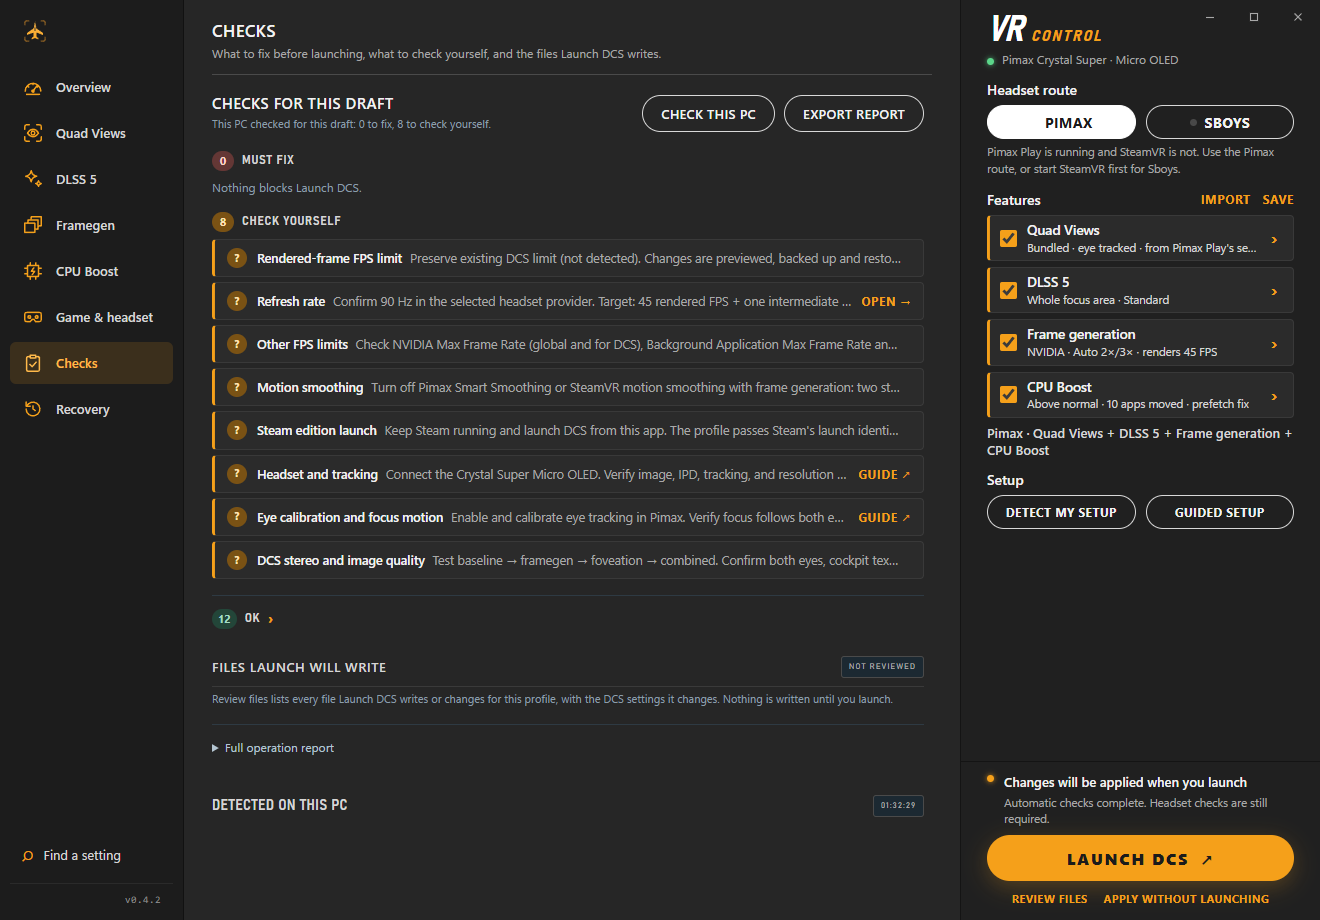
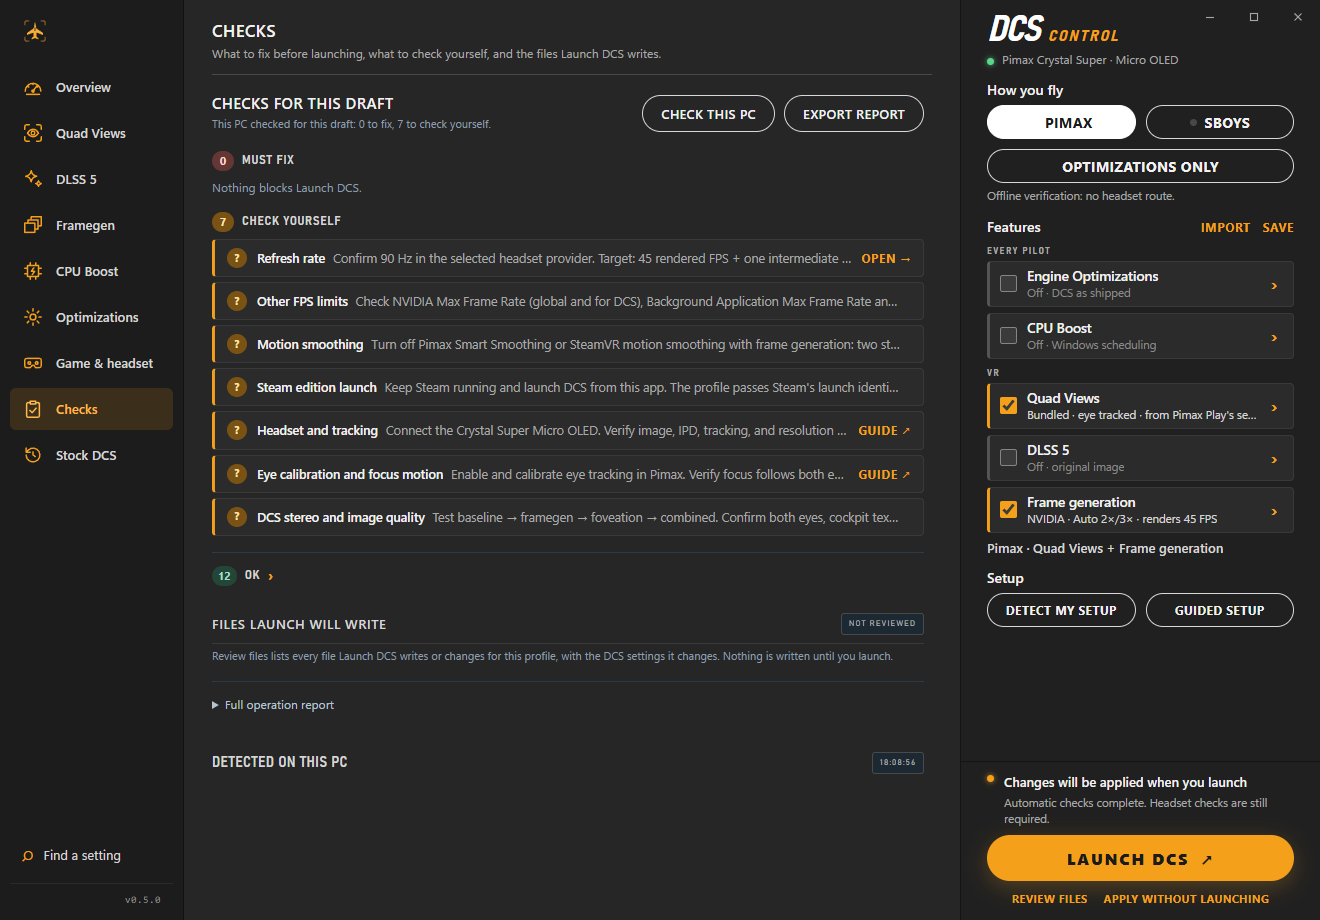
Tidier download, Windows 10, new screenshots; no build paths in the package
Download: the release folder now holds only DcsControl.exe (a small
launcher that starts files\DcsControl.exe with the same arguments and
returns its exit code), "Install DCS Control.cmd", README.txt and a files
folder with everything else. It runs from any folder. The installer lives
in files\scripts and installs the same layout; the upgrade from the old
flat layout is covered by the release test.

Privacy: interface-renders.json in the package listed each image with the
full path of the build folder, which includes the build machine's user
name (also in earlier releases). It now lists file names only, and the
release verification fails if any text file in the package contains the
build user's profile path.

Docs: Windows 10 or 11 (tested on 11); how the app finds DCS (standalone,
Steam, or chosen by hand); what is in the ZIP; screenshots of the current
interface, with the Engine Optimizations page on the README.

diff --git a/scripts/verify-web-release.py b/scripts/verify-web-release.py
@@ -26,7 +26,7 @@ for kind, archive in [('binary', Path(str(release)+'.zip')), ('source', root/f'a
         assert not any(n.lower().endswith('nvngx_dlssnr.dll') for n in z.namelist()), 'Neural runtime must not be bundled'
         if kind == 'binary':
             assert not any('CustomHeadset-1.3.0-Pimax-UI.zip' in n for n in z.namelist()), 'Sboys private binary was bundled'
-            policy = json.loads(z.read(release.name+'/distribution-policy.json'))
+            policy = json.loads(z.read(release.name+'/files/distribution-policy.json'))
             assert any(c['id'] == 'sboys' and c['delivery'] == 'OfficialDownloadOrImport' for c in policy['components'])
             for n in z.namelist():
                 if n.endswith('.zip'):
@@ -39,8 +39,13 @@ for kind, archive in [('binary', Path(str(release)+'.zip')), ('source', root/f'a
                 data = z.read(release.name+'/'+f['path'].replace('\\','/'))
                 assert len(data) == f['bytes'] and digest(data) == f['sha256'], f['path']
             for asset in ['ui/index.html','ui/app.js','ui/setup.js','ui/app.css','ui/theme.css','ui/keyart.svg','ui/aircraft.svg','WebView2Loader.dll','Microsoft.Web.WebView2.Core.dll','licenses/WebView2-SDK.txt','licenses/QuadViews-THIRD-PARTY.txt','licenses/WIL-MIT.txt','docs/SETUP.md','docs/FRAME_PACING.md']:
-                assert release.name+'/'+asset in z.namelist(), asset
+                assert release.name+'/files/'+asset in z.namelist(), asset
             assert not any('interface-fixture/' in n for n in z.namelist()), 'Test fixture accidentally bundled'
+            # No text file in the package may carry the build machine's user profile path (a user name).
+            home = str(Path.home()).lower().encode()
+            for n in z.namelist():
+                if n.lower().endswith(('.json', '.txt', '.md', '.cmd', '.ps1', '.ini', '.cfg', '.lua', '.html', '.js', '.css')):
+                    assert home not in z.read(n).lower() and home.replace(b'\\', b'/') not in z.read(n).lower(), 'Build machine path in the package: ' + n
             result['manifestFiles'] = len(manifest['files'])
         else:
             assert not any(n.startswith('upstream/') and n.lower().endswith(('.exe','.dll','.lib','.pdb')) for n in z.namelist()), 'General-purpose vendor build binaries were bundled'
@@ -58,7 +63,7 @@ assert result['manager']['passed'] == result['manager']['total'] and result['man
 fixture = Path(args.fixture)
 result['installer'] = json.loads((fixture/'result.json').read_text(encoding='utf-8-sig'))
 assert result['installer']['passed'] and result['installer']['previousReleaseUpgradeChecked']
-for name, prefix, count in [('packagedWebView',release/'docs/interface',261),('installedWebView',fixture/'gui',275)]:
+for name, prefix, count in [('packagedWebView',release/'files/docs/interface',261),('installedWebView',fixture/'gui',275)]:
     checks = json.loads(Path(str(prefix)+'-checks.json').read_text())
     assert checks['passed'] and checks['count'] == count
     renders = json.loads(Path(str(prefix)+'-renders.json').read_text())
@@ -68,16 +73,18 @@ for name, prefix, count in [('packagedWebView',release/'docs/interface',261),('i
 old = root/'artifacts/release/DcsVrControl-0.2.3-preview-win-x64'
 for f in json.loads((release/'release-manifest.json').read_text(encoding='utf-8-sig'))['files']:
     p = f['path'].replace('\\','/')
+    if not p.startswith('files/'): continue  # the launcher, the installer command, README.txt
+    p = p.removeprefix('files/')
     # Components added after 0.2.3 (the deferred OFXR layer) have no baseline to compare against.
     # Components rebuilt on purpose from patched sources (Cheeky OpenXR layer with the DCS quad layout export, the
     # focus adapter) must match their own published hash instead; every other component stays byte-identical.
     rebuilt = p.removesuffix('.sha256') in ('components/CheekyOpenXRLayer.dll', 'components/quadviews/XR_APILAYER_MBUCCHIA_quad_views_foveated.dll') or p.startswith('components/cheeky-focus/') or p.startswith('components/boost/') or p.startswith('components/dcsqvcull/')
     if rebuilt:
-        sidecar = release/(p + '.sha256')
+        sidecar = release/'files'/(p + '.sha256')
         if not p.endswith('.sha256') and sidecar.exists():
-            assert digest((release/p).read_bytes()) == sidecar.read_text().strip().lower(), 'Rebuilt component hash mismatch: '+p
+            assert digest((release/'files'/p).read_bytes()) == sidecar.read_text().strip().lower(), 'Rebuilt component hash mismatch: '+p
     elif p.startswith(('components/','packages/')) and (old/p).exists():
-        assert digest((release/p).read_bytes()) == digest((old/p).read_bytes()), 'Native render component changed: '+p
+        assert digest((release/'files'/p).read_bytes()) == digest((old/p).read_bytes()), 'Native render component changed: '+p
 result['nativeRenderComponentsUnchanged'] = True
 result['distributionPolicyChecked'] = True
 result['combinedGpu'] = json.loads((root/'artifacts/native/combined-gpu/result.json').read_text(encoding='utf-8-sig'))

diff --git a/native/launcher/launcher.cpp b/native/launcher/launcher.cpp
@@ -1,0 +1,51 @@
+// DCS Control launcher: the DcsControl.exe at the top of the release folder. It starts the application kept in the
+// files\ folder next to it (files\DcsControl.exe) with the same arguments, waits for it and returns its exit code, so
+// the release folder shows users only what they need: this program, "Install DCS Control.cmd" and README.txt.
+#include <windows.h>
+
+#include <string>
+
+namespace {
+// The command line after this program's own name (quoted or not), passed on unchanged.
+const wchar_t* Arguments(const wchar_t* line) {
+    if (*line == L'"') {
+        ++line;
+        while (*line && *line != L'"') ++line;
+        if (*line) ++line;
+    } else {
+        while (*line && *line != L' ' && *line != L'\t') ++line;
+    }
+    while (*line == L' ' || *line == L'\t') ++line;
+    return line;
+}
+}  // namespace
+
+int WINAPI wWinMain(HINSTANCE, HINSTANCE, PWSTR, int) {
+    wchar_t self[MAX_PATH * 4]{};
+    const DWORD length = GetModuleFileNameW(nullptr, self, ARRAYSIZE(self));
+    if (length == 0 || length >= ARRAYSIZE(self)) return 1;
+    std::wstring folder(self);
+    folder.resize(folder.find_last_of(L'\\'));
+    const std::wstring files = folder + L"\\files";
+    const std::wstring app = files + L"\\DcsControl.exe";
+    if (GetFileAttributesW(app.c_str()) == INVALID_FILE_ATTRIBUTES) {
+        MessageBoxW(nullptr, L"The files folder next to DcsControl.exe is missing. Extract the whole ZIP and start DcsControl.exe again.",
+            L"DCS Control", MB_OK | MB_ICONERROR);
+        return 2;
+    }
+    std::wstring command = L"\"" + app + L"\"";
+    const wchar_t* rest = Arguments(GetCommandLineW());
+    if (*rest) command += L" " + std::wstring(rest);
+    STARTUPINFOW startup{sizeof(startup)};
+    PROCESS_INFORMATION process{};
+    if (!CreateProcessW(app.c_str(), command.data(), nullptr, nullptr, FALSE, 0, nullptr, files.c_str(), &startup, &process)) {
+        MessageBoxW(nullptr, L"DCS Control could not be started from the files folder.", L"DCS Control", MB_OK | MB_ICONERROR);
+        return 3;
+    }
+    CloseHandle(process.hThread);
+    WaitForSingleObject(process.hProcess, INFINITE);
+    DWORD code = 0;
+    GetExitCodeProcess(process.hProcess, &code);
+    CloseHandle(process.hProcess);
+    return static_cast<int>(code);
+}

diff --git a/docs/USER_GUIDE.md b/docs/USER_GUIDE.md
@@ -49,24 +49,28 @@ What it does **not** do: it does not change Windows settings, your GPU driver se
 
 ## Requirements
 
-- **Windows 11, 64-bit.** Run as a normal user — not as administrator.
+- **Windows 10 or 11, 64-bit** (tested on Windows 11; Windows 10 is supported by everything the app uses but has not been flown yet). Run as a normal user — not as administrator.
 - **For Engine Optimizations and CPU Boost:** any GPU and headset, or none. The items below are for the VR features.
 - **NVIDIA RTX graphics card** for DLSS 5 and for NVIDIA optical-flow frame generation. (The Framegen page also offers FidelityFX, which works on any GPU, but the tested setup is NVIDIA.) Development and testing: RTX 5090.
 - **Pimax headset** (tested: Crystal Super Micro OLED) with either
   - **Pimax Play** (the original Pimax OpenXR runtime), or
   - **SteamVR with the Sboys driver** (CustomHeadsetOpenVR 1.3.0; for SLAM tracking it needs Pimax EVO).
 - **DCS World 2.9**, Steam edition or standalone.
-- **Microsoft Edge WebView2 Runtime** (already on most Windows 11 PCs) and the **Microsoft Visual C++ x64 runtime 14.50 or newer**. `Install.cmd` checks both and installs them from Microsoft if they are missing.
+- **Microsoft Edge WebView2 Runtime** (already on most Windows 10 and 11 PCs) and the **Microsoft Visual C++ x64 runtime 14.50 or newer**. `Install DCS Control.cmd` checks both and installs them from Microsoft if they are missing.
 - For DLSS 5: your own signed NVIDIA **`nvngx_dlssnr.dll`, version 310.8** (see [DLSS 5](#dlss-5)). It is not included and the app does not download it.
 
 ## Install
 
 Download `DcsControl-0.5.0-preview-win-x64.zip` from the [Releases page](https://github.com/NIGos/dcs-control/releases) and extract it to a folder of your choice. Then either:
 
-- **Run it directly:** double-click `DcsControl.exe` in the extracted folder (.NET is included), or
-- **Install it:** double-click `Install.cmd`. It verifies the files, installs the app for your Windows user under `%LOCALAPPDATA%\Programs\DcsControl`, adds **DCS Control** to the Start menu, and installs WebView2 / the C++ runtime from Microsoft if they are missing (this step may need internet access and an administrator prompt for the C++ runtime).
+The folder contains only three things: **`DcsControl.exe`** (the app), **`Install DCS Control.cmd`** and a **`files`** folder with everything else (keep it next to `DcsControl.exe`), plus a short `README.txt`. The folder can be anywhere: Desktop, Downloads, another drive. The app keeps its own data (backups, profiles) in `%LOCALAPPDATA%`, so moving the folder loses nothing.
 
-If you had **DCS VR Control** installed (the app's name before 0.5.0), `Install.cmd` replaces it and its Start menu entry; your backups and profiles stay where they are and Back to stock DCS keeps working.
+**How the app finds DCS:** the standalone version from Windows' list of installed programs ("DCS World", also OpenBeta), the Steam version from your Steam libraries, and your settings from `Saved Games\DCS` (or `DCS.openbeta`). If it finds nothing, or you have more than one install, pick `DCS.exe` and `options.lua` on the **Game & headset** page.
+
+- **Run it directly:** double-click `DcsControl.exe` in the extracted folder (.NET is included), or
+- **Install it:** double-click `Install DCS Control.cmd`. It verifies the files, installs the app for your Windows user under `%LOCALAPPDATA%\Programs\DcsControl`, adds **DCS Control** to the Start menu, and installs WebView2 / the C++ runtime from Microsoft if they are missing (this step may need internet access and an administrator prompt for the C++ runtime).
+
+If you had **DCS VR Control** installed (the app's name before 0.5.0), `Install DCS Control.cmd` replaces it and its Start menu entry; your backups and profiles stay where they are and Back to stock DCS keeps working.
 
 Installing the app does not touch DCS or your VR software. Nothing is written into DCS until you press **Launch DCS** (or **Apply without launching**).
 
@@ -185,7 +189,9 @@ Four more options on the CPU Boost page, all off by default and usable without C
 
 ### Engine Optimizations (CPU)
 
-**Engine Optimizations** is its own page, off by default. When on, Launch DCS installs a small module (DcsQvCull) that DCS loads itself through a Lua hook in `Saved Games\DCS\Scripts\Hooks`; nothing in the DCS install folder changes. It removes CPU work from DCS's render thread without changing what is drawn:
+![Engine Optimizations page](screenshots/engine-optimizations.png)
+
+**Engine Optimizations** is its own page, off by default, and it is for every pilot, on a monitor or with any headset. Once applied it stays on every time DCS starts, also from Steam or a desktop shortcut, until you turn it off or use Back to stock DCS. When on, Launch DCS installs a small module (DcsQvCull) that DCS loads itself through a Lua hook in `Saved Games\DCS\Scripts\Hooks`; nothing in the DCS install folder changes. It removes CPU work from DCS's render thread without changing what is drawn:
 
 - **Streaming timer cache** (on) — DCS reads a high-resolution clock on every texture bind, tens of thousands of times a frame, only to timestamp texture-streaming use. The module serves it from a value refreshed every millisecond, far finer than streaming needs; nothing you see changes. Measured: **+5 to +6 % FPS**.
 - **Culling partition boost** (on) — DCS splits the search for visible objects into 12 uneven tasks and waits for the slowest. The module splits the same work into 16; the same objects are found. Measured: **+2 % FPS**, p95 frame time −3 %.
@@ -334,7 +340,7 @@ Only a running DCS stops it. The folded list shows what will happen to each file
 ### How do I uninstall?
 
 1. Open the app and press **Back to stock DCS** (Stock DCS page) with DCS closed.
-2. Run `Uninstall.cmd` from the extracted release folder. It removes the application files after checking them; your profiles and backups stay.
+2. Run `files\Uninstall.cmd` from the installed (or extracted) folder. It removes the application files after checking them; your profiles and backups stay.
 3. If you want everything gone, delete `%LOCALAPPDATA%\DcsControl` (or `%LOCALAPPDATA%\DcsVrControl` if you used the app before 0.5.0) afterwards (only after Back to stock DCS — it holds the backups).
 
 The Sboys driver, if you installed it, is managed by its own tool.

diff --git a/README.md b/README.md
@@ -13,9 +13,9 @@ Everything the app changes is backed up and comes back with **Back to stock DCS*
   <img src="docs/screenshots/overview-last-flight.png" alt="Overview: launch status, the features and a summary of the last flight" width="800">
 </p>
 
-| Quad Views, read from Pimax Play | Frame generation | Back to stock DCS |
+| Engine Optimizations (every pilot) | Quad Views, read from Pimax Play | Back to stock DCS |
 | --- | --- | --- |
-| ![Quad Views](docs/screenshots/quad-views-pimax-play.png) | ![Framegen](docs/screenshots/framegen-auto-2x-3x.png) | ![Back to stock DCS](docs/screenshots/recovery-original-files.png) |
+| ![Engine Optimizations](docs/screenshots/engine-optimizations.png) | ![Quad Views](docs/screenshots/quad-views-pimax-play.png) | ![Back to stock DCS](docs/screenshots/recovery-original-files.png) |
 
 ## What it does
 
@@ -38,8 +38,8 @@ After each flight the Overview shows a **Last flight** summary.
 
 ## Quick start
 
-1. **You need:** Windows 11 and DCS World 2.9. For the VR features: a Pimax headset with Pimax Play (or SteamVR with the Sboys driver) and an NVIDIA RTX GPU; for DLSS 5 your own `nvngx_dlssnr.dll` (tested with 310.8, not included).
-2. **Download** `DcsControl-0.5.0-preview-win-x64.zip` from [Releases](https://github.com/NIGos/dcs-control/releases), unzip it and run `Install.cmd` (or just `DcsControl.exe`).
+1. **You need:** Windows 10 or 11 (64-bit; tested on 11) and DCS World 2.9. For the VR features: a Pimax headset with Pimax Play (or SteamVR with the Sboys driver) and an NVIDIA RTX GPU; for DLSS 5 your own `nvngx_dlssnr.dll` (tested with 310.8, not included).
+2. **Download** `DcsControl-0.5.0-preview-win-x64.zip` from [Releases](https://github.com/NIGos/dcs-control/releases), unzip it anywhere and double-click `DcsControl.exe`. Inside you find only `DcsControl.exe`, `Install DCS Control.cmd` (adds it to the Start menu) and a `files` folder that must stay next to it.
 3. **Choose how you fly** in the right panel: **Pimax**, **Sboys**, or **Optimizations only** (monitor or another headset). **Detect my setup** and **Guided setup** can do it for you.
 4. **Tick the features** you want. Each one has its own page if you want to adjust it.
 5. **Press Launch DCS.** Engine Optimizations then stay on whenever DCS starts. The VR features and CPU Boost need DCS to be started from the app.

diff --git a/docs/THIRD_PARTY.md b/docs/THIRD_PARTY.md
@@ -27,6 +27,6 @@ FidelityFX build scripts contain compatibility fixes for Ninja and shader output
 
 OFXR retains its original LGPL/GPL and third-party notices inside its ZIP. Its NVIDIA optical-flow headers have their notice there; nvofapi64.dll is provided by the installed NVIDIA driver and is not bundled. Cheeky dependency notices, Quad Views THIRD_PARTY, OpenXR MixedReality NOTICE and Windows Implementation Library notices accompany the modified binaries. The matching source ZIP must accompany binary redistribution. General-purpose SDK executables, DLLs, binary libraries and debug symbols are omitted from the source ZIP: obtain MSVC / Windows SDK and FidelityFX 1.1.4 tools from their official distributions, then overlay these modified source snapshots. All renderer source and shader changes remain included. `UPSTREAM_REVISIONS.json` pins the base revisions.
 
-Microsoft WebView2 / C++ installers are downloaded only when required by Install.cmd and checked for a valid Microsoft signature before execution. They are not bundled. Their official installer terms apply. Full redistribution policy and hashes are supplied for review; the private preview is unsigned.
+Microsoft WebView2 / C++ installers are downloaded only when required by Install DCS Control.cmd and checked for a valid Microsoft signature before execution. They are not bundled. Their official installer terms apply. Full redistribution policy and hashes are supplied for review; the private preview is unsigned.
 
 Cheeky is distributed as the three upstream binaries the profiles load (`dxgi.dll`, `CheekyFoveatedDLSSHost.dll`, `CheekyFoveatedDLSSRuntime.dll`), extracted at build time from the pinned 0.5.4 archive and hash-verified. The archive and its `version.dll` fallback loader are not distributed: Microsoft Defender flags that loader (`Trojan:Win32/Posilod.CA!cl`, a cloud heuristic), and `dxgi.dll` alone is sufficient. When another `dxgi.dll` is already in the DCS bin folder, the app asks the user to remove it instead of falling back.

diff --git a/docs/RELEASE_NOTES.md b/docs/RELEASE_NOTES.md
@@ -1,6 +1,8 @@
 # 0.5.0 preview
 
-**DCS VR Control is now DCS Control.** It is no longer only for VR: the CPU optimizations are for every pilot, on a monitor or with any headset. The app is `DcsControl.exe`, installed under `%LOCALAPPDATA%\Programs\DcsControl`; `Install.cmd` replaces an earlier DCS VR Control install and its Start menu entry. An existing state folder (`%LOCALAPPDATA%\DcsVrControl`, with the record of original files and the applied profile) keeps being used, so Back to stock DCS keeps working; new installs use `%LOCALAPPDATA%\DcsControl`. The repository moved to github.com/NIGos/dcs-control (the old address redirects).
+**DCS VR Control is now DCS Control.** It is no longer only for VR: the CPU optimizations are for every pilot, on a monitor or with any headset. The app is `DcsControl.exe`, installed under `%LOCALAPPDATA%\Programs\DcsControl`; `Install DCS Control.cmd` replaces an earlier DCS VR Control install and its Start menu entry. An existing state folder (`%LOCALAPPDATA%\DcsVrControl`, with the record of original files and the applied profile) keeps being used, so Back to stock DCS keeps working; new installs use `%LOCALAPPDATA%\DcsControl`. The repository moved to github.com/NIGos/dcs-control (the old address redirects).
+
+**A tidier download**: the release folder now holds only `DcsControl.exe`, `Install DCS Control.cmd`, `README.txt` and a `files` folder with everything else; `DcsControl.exe` is a small launcher that starts the app in `files`. It runs from any folder.
 
 **Engine Optimizations first**: the right panel and the Overview list Engine Optimizations and CPU Boost first, then the VR features. Engine Optimizations is now a feature row of its own, and "How you fly" (Pimax, Sboys, Optimizations only) replaces "Headset route".
 

diff --git a/docs/SETUP.md b/docs/SETUP.md
@@ -1,6 +1,6 @@
 # Installation and guided setup
 
-Extract the binary ZIP, keep its corresponding-source ZIP alongside it, then run **Install.cmd**. Installation verifies the payload, installs the app for the current user and creates a Start menu shortcut. It checks WebView2 and the Microsoft C++ x64 runtime (14.50 or newer). Missing prerequisites are downloaded from Microsoft, checked for a valid Microsoft signature and installed. Internet access and Windows elevation may be needed for the C++ runtime. Neither VR drivers nor game mods are activated by application installation.
+Extract the binary ZIP, keep its corresponding-source ZIP alongside it, then run **Install DCS Control.cmd** (or start `DcsControl.exe` directly). Installation verifies the payload, installs the app for the current user and creates a Start menu shortcut. It checks WebView2 and the Microsoft C++ x64 runtime (14.50 or newer). Missing prerequisites are downloaded from Microsoft, checked for a valid Microsoft signature and installed. Internet access and Windows elevation may be needed for the C++ runtime. Neither VR drivers nor game mods are activated by application installation.
 
 On this development PC the prerequisites are already present. Their missing-prerequisite installation branches have not been exercised on a clean Windows machine. For an offline PC, obtain the official Evergreen WebView2 standalone installer and C++ x64 runtime in advance. Do not substitute the Edge browser for WebView2 Runtime. The self-contained package includes .NET.
 
